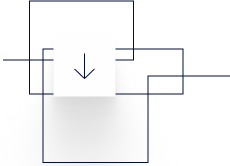
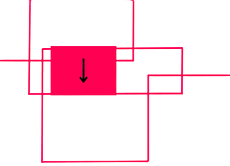
header update

Changed region(s): [[0.0, 0.0, 1.0, 0.994]]

diff --git a/index.html b/index.html
@@ -78,9 +78,9 @@
     <div class="header_decoration-1">
         <img src="images/header-decorator1.png">
     </div>
-    <div class="header_decoration-2">
+    <!-- <div class="header_decoration-2">
         <img src="images/header-decorator-2.png">
-    </div>
+    </div> -->
     </header>
 
 </body>
